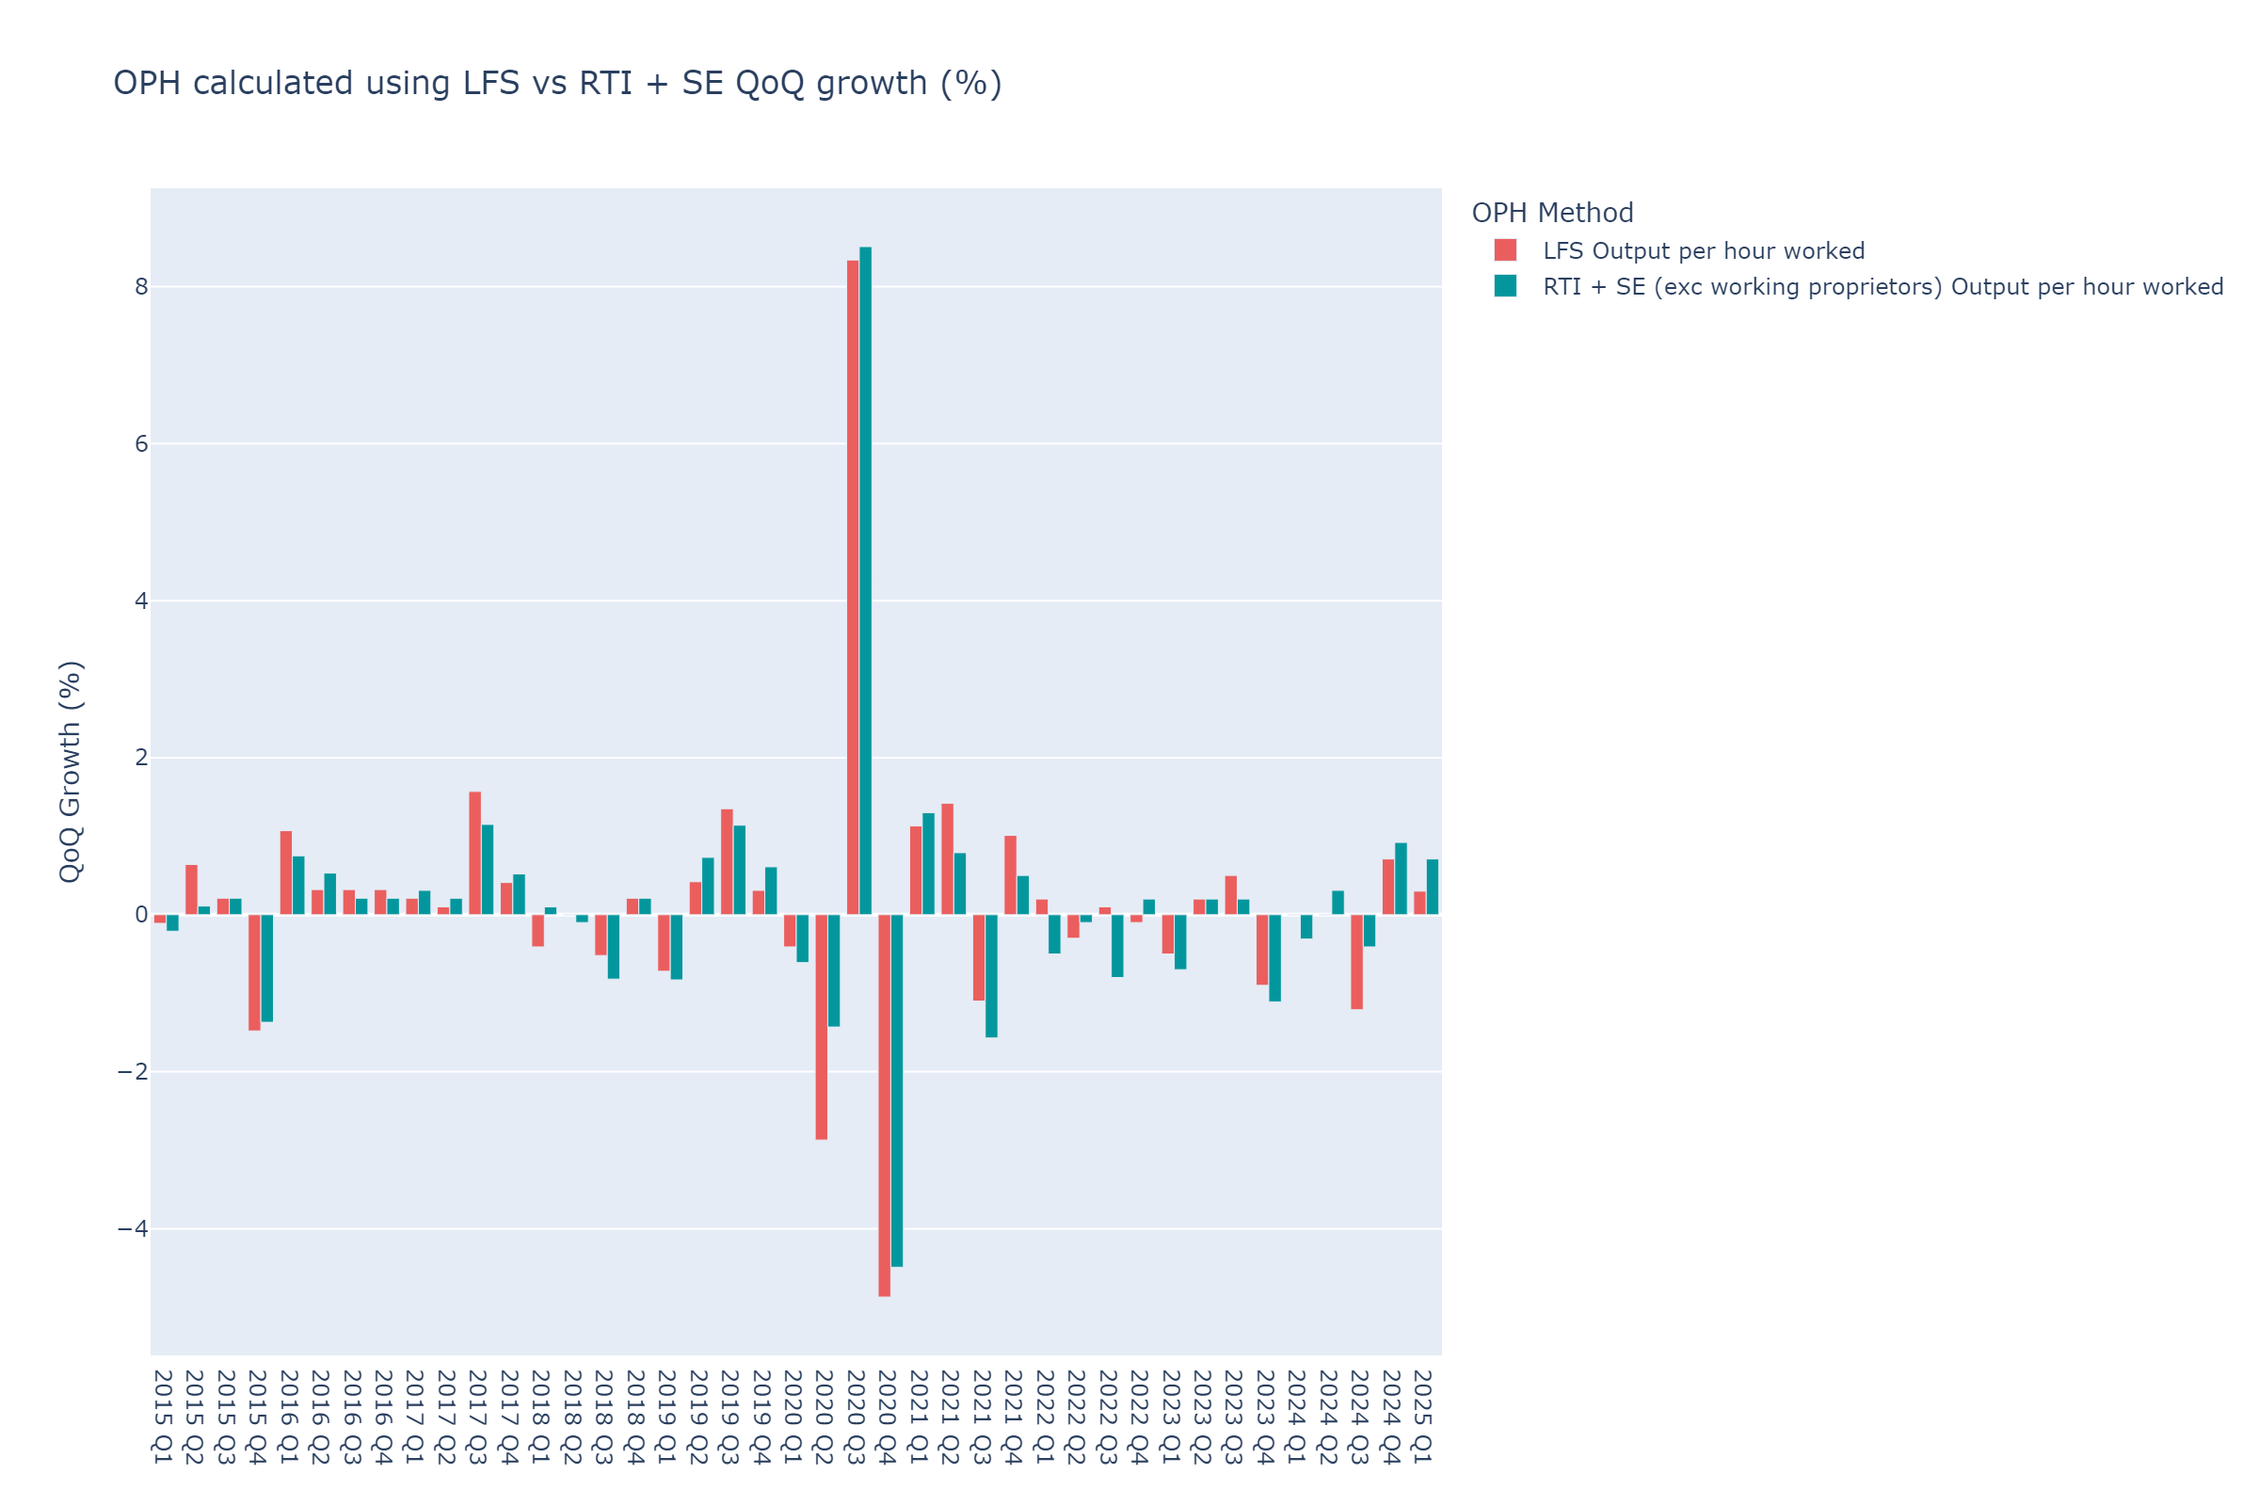
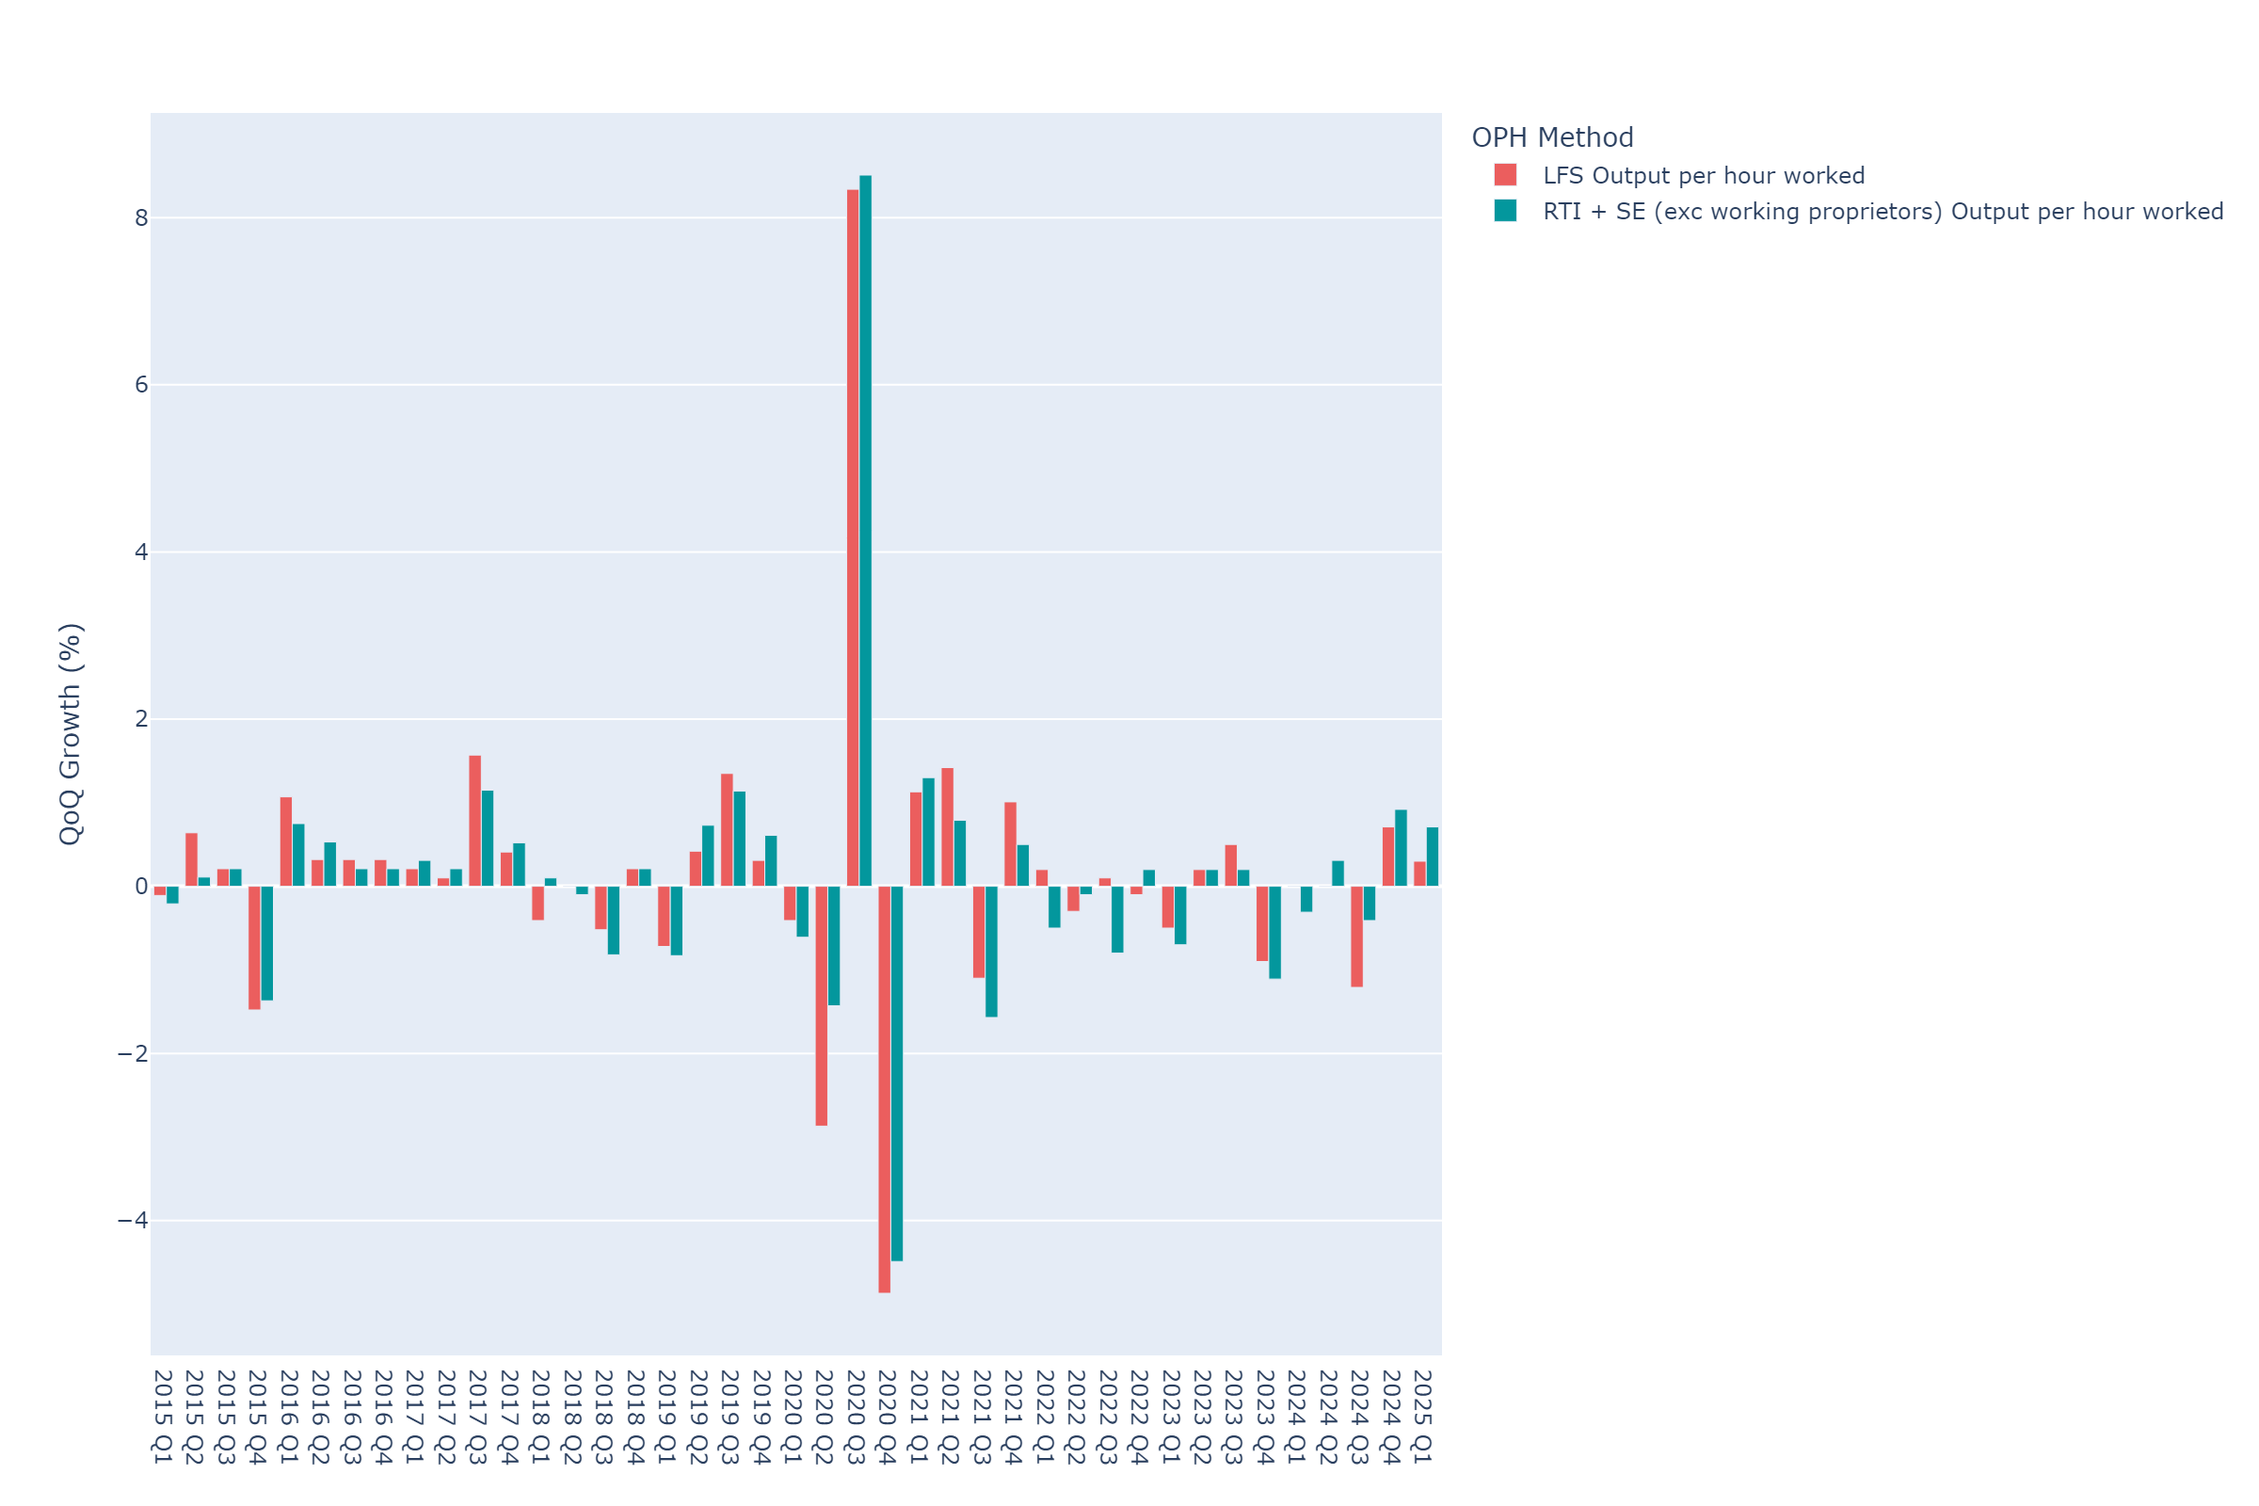
Visualisation changes

diff --git a/scripts/Flash_Estimate_Processing_20252802.py b/scripts/Flash_Estimate_Processing_20252802.py
@@ -58,7 +58,7 @@ def line_graph(data, year, title, yAxisTitle, legendTitle):
         data, 
         x="Quarter", 
         y=data.columns.drop("Quarter").tolist(), 
-        title=f"{title} (Q1 {year} = 100)",
+        title="",
         labels={"value": f"{yAxisTitle}", "variable": f"{legendTitle}"},
         color_discrete_sequence=TPI_colours)
 
@@ -88,7 +88,7 @@ def qoq(data, title, legendTitle):
         fig.update_xaxes(title=None)
         return fig
 
-def double_qoq(data, data_two, title, legendTitle):
+def double_qoq(data, data_two, title, legendTitle, leftTitle, rightTitle):
         # data = data[['Quarter', 'OPH']]
         # data["quarter_numeric"] = data["Quarter"].apply(quarter_to_numeric)
         # data = data[(data["quarter_numeric"] >= 2022 - 0.25) & (data["quarter_numeric"] <= 2024.75)]
@@ -104,7 +104,7 @@ def double_qoq(data, data_two, title, legendTitle):
         # Create subplots with 1 row and 2 columns
         fig = make_subplots(
             rows=1, cols=2, 
-            subplot_titles=["Output per hour", f"Output per worker"]
+            subplot_titles=[f"{leftTitle}", f"{rightTitle}"]
         )
 
         # Add the first bar chart to the first subplot
@@ -184,20 +184,44 @@ def horizontal_bar(data, title):
         x=data['Contribution'],
         orientation='h',
         marker=dict(
-            color=data['Contribution'],
-            colorscale=[
-                [0, TPI_Two],  
-                [1, TPI_One]
-            ],
+            color=[TPI_One if x > 0 else TPI_Two for x in data['Contribution']],
             line=dict(color='black', width=0.5)
         ), 
         width=[w / max(data['Size']) * 0.9 for w in data['Size']],  # Normalise bar thickness
     ))
 
-    # Clean layout
+    pos_data = data[data['Contribution'] >= 0]
+    neg_data = data[data['Contribution'] < 0]
+
+    # Positive annotations
+    for i, row in pos_data.iterrows():
+        fig.add_annotation(
+            x=row['Contribution'],
+            y=row['Industry'],
+            text=f"{row['Contribution']:.1%}",
+            showarrow=False,
+            font=dict(size=14, color='black'),
+            xanchor="left",
+            xshift=5,  # spacing from end of bar
+            yshift=0
+        )
+
+    # Negative annotations
+    for i, row in neg_data.iterrows():
+        fig.add_annotation(
+            x=row['Contribution'],
+            y=row['Industry'],
+            text=f"{row['Contribution']:.1%}",
+            showarrow=False,
+            font=dict(size=14, color='black'),
+            xanchor="right",
+            xshift=0,  # spacing from end of bar
+            yshift=0
+        )
+
     fig.update_layout(
         title=f'{title}',
-        xaxis_title='Percentage point change',
+        xaxis_title='Contribution to OPH, percentage point change',
         yaxis_title='',
         bargap=0.15,
         template='simple_white',
@@ -208,6 +232,11 @@ def horizontal_bar(data, title):
             zerolinewidth=2,
             zerolinecolor='gray'
         ),
+        yaxis=dict(
+            tickfont=dict(
+                size=15,
+            )
+        )
     )
     return fig
 
@@ -226,16 +255,16 @@ def OPH(data, title):
             "Change in <b>GVA</b> and <b>hours worked</b>"
         )
     )
-
+    left_chart_data = data.sort_values(by='Output per hour worked', ascending=False)
     # Left chart: Productivity
     fig.add_trace(
         go.Bar(
-            x=data['Output per hour worked'],
-            y=data['Industry'],
+            x=left_chart_data['Output per hour worked'],
+            y=left_chart_data['Industry'],
             orientation='h',
             name='Productivity',
             marker_color=TPI_colours[0],
-            text=data['Output per hour worked'].map(lambda x: f"{x:.1f}%"),
+            text=left_chart_data['Output per hour worked'].map(lambda x: f"{x:.1f}%"),
             textposition='auto'
         ),
         row=1, col=1
@@ -294,24 +323,24 @@ def New_GDP(data):
     ))
 
     fig.update_layout(
-        title="Q1 2025 GDP Growth by Country",
+        title="",
         xaxis_title="Growth Rate (%)",
         yaxis_title="",
         template="plotly_white"
     )
     return fig
 
-# Flash_Estimate = pd.read_csv('../src/New-release/OPH Q1 2025.csv', skiprows=7, usecols=[0,1,2,3], names=["Quarter", "GVA", "Hours Worked", "OPH"])
-# # Change from Q4 1997 to 1997 Q4
-# Flash_Estimate["Quarter"] = Flash_Estimate["Quarter"].str.replace(r"(Q\d) (\d{4})", r"\2 \1", regex=True)
+# # Flash_Estimate = pd.read_csv('../src/New-release/OPH Q1 2025.csv', skiprows=7, usecols=[0,1,2,3], names=["Quarter", "GVA", "Hours Worked", "OPH"])
+# # # Change from Q4 1997 to 1997 Q4
+# # Flash_Estimate["Quarter"] = Flash_Estimate["Quarter"].str.replace(r"(Q\d) (\d{4})", r"\2 \1", regex=True)
 
-# fig = line_graph(Flash_Estimate, 1997)
-# # fig = qoq(Flash_Estimate)
-# # fig = yoy(Flash_Estimate)
+# # fig = line_graph(Flash_Estimate, 1997)
+# # # fig = qoq(Flash_Estimate)
+# # # fig = yoy(Flash_Estimate)
 
-# fig.update_layout(template="plotly_white")
+# # fig.update_layout(template="plotly_white")
 
-# fig.show()
+# # fig.show()
 
 Flash_Estimate_OPH = pd.read_csv('../src/New-release/OPH Q1 2025.csv', skiprows=7, usecols=[0,1,2,3], names=["Quarter", "Gross Value Added", "Hours Worked", "Output Per Hour"])
 Flash_Estimate_OPH["Quarter"] = Flash_Estimate_OPH["Quarter"].str.replace(r"(Q\d) (\d{4})", r"\2 \1", regex=True)
@@ -319,66 +348,94 @@ Flash_Estimate_OPH["Quarter"] = Flash_Estimate_OPH["Quarter"].str.replace(r"(Q\d
 # Flash_Estimate_OPH = pd.melt(Flash_Estimate_OPH, id_vars=['Quarter'], var_name='Variable', value_name='Value')
 # Flash_Estimate_OPH['Country'] = 'UK Flash Estimate'
 # Flash_Estimate_OPH['Industry'] = 'Total'
-# # Flash_Estimate_OPH['Variable'] = 'Flash Estimate Output per Hour'
+# Flash_Estimate_OPH['Variable'] = 'Flash Estimate Output per Hour'
 # Flash_Estimate_OPH = rebase_chain_linked_quarters(Flash_Estimate_OPH, 2020)
-fig = line_graph(Flash_Estimate_OPH, 1997, "Output per hour worked vs Hours worked vs Gross Value Added for Q1 2025 Flash Estimate data", "", "")
+base_value = Flash_Estimate_OPH.loc[Flash_Estimate_OPH["Quarter"] == "2007 Q1", "Gross Value Added"].iloc[0]
+Flash_Estimate_OPH["Gross Value Added"] = (Flash_Estimate_OPH["Gross Value Added"] / base_value) * 100
+
+base_value = Flash_Estimate_OPH.loc[Flash_Estimate_OPH["Quarter"] == "2007 Q1", "Hours Worked"].iloc[0]
+Flash_Estimate_OPH["Hours Worked"] = (Flash_Estimate_OPH["Hours Worked"] / base_value) * 100
+
+base_value = Flash_Estimate_OPH.loc[Flash_Estimate_OPH["Quarter"] == "2007 Q1", "Output Per Hour"].iloc[0]
+Flash_Estimate_OPH["Output Per Hour"] = (Flash_Estimate_OPH["Output Per Hour"] / base_value) * 100
+
+Flash_Estimate_OPH["Quarter"] = Flash_Estimate_OPH["Quarter"].apply(quarter_to_numeric)
+Flash_Estimate_OPH = Flash_Estimate_OPH[(Flash_Estimate_OPH['Quarter'] >= 2007) & (Flash_Estimate_OPH['Quarter'] <= 2025)]
+Flash_Estimate_OPH["Quarter"] = Flash_Estimate_OPH["Quarter"].apply(numeric_to_quarter)
+fig = line_graph(Flash_Estimate_OPH, 2007, "", "", "")
 fig.show()
 fig.write_image("../out/visualisations/Q1 2025 Flash Estimate.png", width=1200, height=800, scale=2)
 
-# Dataset = pd.read_csv('../out/Long_Dataset.csv')
-# Dataset = pd.concat([Dataset, Flash_Estimate_OPH])
-# Dataset.to_csv("../out/Long_Dataset.csv", index=False)
+# # Dataset = pd.read_csv('../out/Long_Dataset.csv')
+# # Dataset = pd.concat([Dataset, Flash_Estimate_OPH])
+# # Dataset.to_csv("../out/Long_Dataset.csv", index=False)
 
-# OPH_Comparison = pd.read_csv('../src/New-release/OPH LFS vs RTI.csv', skiprows=7, usecols=[0,1,2], names=["Quarter", "LFS Output per hour worked", "RTI + SE (exc working proprietors) Output per hour worked"])
-# OPH_Comparison["Quarter"] = OPH_Comparison["Quarter"].str.replace(r"(Q\d) (\d{4})", r"\2 \1", regex=True)
-# OPH_Comparison["Quarter"] = OPH_Comparison["Quarter"].apply(quarter_to_numeric)
-# OPH_Comparison = pd.melt(OPH_Comparison, id_vars=['Quarter'], var_name='Variable', value_name='Value')
-# OPH_Comparison['Country'] = 'UK Flash Estimate'
-# OPH_Comparison['Industry'] = 'Total'
-# print(OPH_Comparison)
-# Dataset = pd.read_csv('../out/Long_Dataset.csv')
-# Dataset = pd.concat([Dataset, OPH_Comparison])
-# Dataset.to_csv("../out/Long_Dataset.csv", index=False)
+# # OPH_Comparison = pd.read_csv('../src/New-release/OPH LFS vs RTI.csv', skiprows=7, usecols=[0,1,2], names=["Quarter", "LFS Output per hour worked", "RTI + SE (exc working proprietors) Output per hour worked"])
+# # OPH_Comparison["Quarter"] = OPH_Comparison["Quarter"].str.replace(r"(Q\d) (\d{4})", r"\2 \1", regex=True)
+# # OPH_Comparison["Quarter"] = OPH_Comparison["Quarter"].apply(quarter_to_numeric)
+# # OPH_Comparison = pd.melt(OPH_Comparison, id_vars=['Quarter'], var_name='Variable', value_name='Value')
+# # OPH_Comparison['Country'] = 'UK Flash Estimate'
+# # OPH_Comparison['Industry'] = 'Total'
+# # print(OPH_Comparison)
+# # Dataset = pd.read_csv('../out/Long_Dataset.csv')
+# # Dataset = pd.concat([Dataset, OPH_Comparison])
+# # Dataset.to_csv("../out/Long_Dataset.csv", index=False)
 
-# Flash_Estimate_OPH['Variable'] = 'Flash Estimate Output per Hour'
-# OPH_Comparison = rebase_chain_linked_quarters(OPH_Comparison, 2020)
-# # fig = qoq(Flash_Estimate)
-# # fig = yoy(Flash_Estimate)
+# # Flash_Estimate_OPH['Variable'] = 'Flash Estimate Output per Hour'
+# # OPH_Comparison = rebase_chain_linked_quarters(OPH_Comparison, 2020)
+# # # fig = qoq(Flash_Estimate)
+# # # fig = yoy(Flash_Estimate)
+
+# QOQ bar graphs:
 # OPH_Comparison = pd.read_csv('../src/New-release/OPH LFS vs RTI.csv', skiprows=7, usecols=[0,1,2], names=["Quarter", "LFS Output per hour worked", "RTI + SE (exc working proprietors) Output per hour worked"])
 # OPH_Comparison["Quarter"] = OPH_Comparison["Quarter"].str.replace(r"(Q\d) (\d{4})", r"\2 \1", regex=True)
 # OPH_Comparison['Quarter'] = OPH_Comparison['Quarter'].apply(quarter_to_numeric)
-# OPH_Comparison = OPH_Comparison[(OPH_Comparison['Quarter'] >= 2014.75) & (OPH_Comparison['Quarter'] <= 2025)]
-# OPH_Comparison['Quarter'] = OPH_Comparison['Quarter'].apply(numeric_to_quarter)
-# # fig = line_graph(OPH_Comparison, 2022, "OPH using LFS vs RTI", "Output per hour worked", "OPH ...")
-# # fig.update_layout(template="plotly_white")
-# # fig.show()
+
+# preCovidOPH = OPH_Comparison.copy()
+# preCovidOPH = preCovidOPH[(preCovidOPH['Quarter'] >= 2014.75) & (preCovidOPH['Quarter'] <= 2019)]
+# preCovidOPH['Quarter'] = preCovidOPH['Quarter'].apply(numeric_to_quarter)
+
+# postCovidOPH = OPH_Comparison.copy()
+# postCovidOPH = postCovidOPH[(postCovidOPH['Quarter'] >= 2021) & (postCovidOPH['Quarter'] <= 2025)]
+# postCovidOPH['Quarter'] = postCovidOPH['Quarter'].apply(numeric_to_quarter)
+
+# fig = double_qoq(preCovidOPH, postCovidOPH, "", "legend", "Output per hour worked pre-COVID", "Output per hour worked post-COVID")
+# fig.write_image("../out/visualisations/OPH - LFS vs RTI - double.png", width=1200, height=800, scale=2)
+# fig.show()
 
 # OPW_Comparison = pd.read_csv('../src/New-release/OPW LFS vs RTI.csv', skiprows=7, usecols=[0,1,2], names=["Quarter", "LFS Output per hour worked", "RTI + SE (exc working proprietors) Output per hour worked"])
 # OPW_Comparison["Quarter"] = OPW_Comparison["Quarter"].str.replace(r"(Q\d) (\d{4})", r"\2 \1", regex=True)
 # OPW_Comparison['Quarter'] = OPW_Comparison['Quarter'].apply(quarter_to_numeric)
-# OPW_Comparison = OPW_Comparison[(OPW_Comparison['Quarter'] >= 2014.75) & (OPW_Comparison['Quarter'] <= 2025)]
-# OPW_Comparison['Quarter'] = OPW_Comparison['Quarter'].apply(numeric_to_quarter)
-# # fig = line_graph(OPW_Comparison, 2022, "OPW using LFS vs RTI", "Output per worker", "OPW ...")
-# # fig.update_layout(template="plotly_white")
-# # fig.show()
 
-# # fig = qoq(OPH_Comparison, "OPH calculated using LFS vs RTI + SE QoQ growth (%)", "OPH Method")
-# # fig.show()
-# # fig.write_image("../out/visualisations/OPH - LFS vs RTI.png", width=1200, height=800, scale=2)
-# # fig = qoq(OPW_Comparison, "OPW calculated using LFS vs RTI + SE QoQ growth (%)", "OPW Method")
-# # fig.show()
+# preCovidOPW = OPW_Comparison.copy()
+# preCovidOPW = preCovidOPW[(preCovidOPW['Quarter'] >= 2014.75) & (preCovidOPW['Quarter'] <= 2019)]
+# preCovidOPW['Quarter'] = preCovidOPW['Quarter'].apply(numeric_to_quarter)
+
+# postCovidOPW = OPW_Comparison.copy()
+# postCovidOPW = postCovidOPW[(postCovidOPW['Quarter'] >= 2021) & (postCovidOPW['Quarter'] <= 2025)]
+# postCovidOPW['Quarter'] = postCovidOPW['Quarter'].apply(numeric_to_quarter)
+
+# fig = double_qoq(preCovidOPW, postCovidOPW, "", "legend", "Output per worker pre-COVID", "Output per worker post-COVID")
+# fig.write_image("../out/visualisations/OPW - LFS vs RTI - double.png", width=1200, height=800, scale=2)
+# fig.show()
+
+# fig = qoq(OPH_Comparison, "", "OPH Method")
+# fig.show()
+# fig.write_image("../out/visualisations/OPH - LFS vs RTI.png", width=1200, height=800, scale=2)
+# fig = qoq(OPW_Comparison, "", "OPW Method")
+# fig.show()
 # # fig.write_image("../out/visualisations/OPW LFS vs RTI.png", width=1200, height=800, scale=2)
 # fig = double_qoq(OPH_Comparison, OPW_Comparison, "OPH and OPW calculated using LFS vs RTI + SE QoQ growth (%)", "Method")
-# fig.write_image("../out/visualisations/OPH and OPW LFS vs RTI.png", width=1200, height=800, scale=2)
+# # # fig.write_image("../out/visualisations/OPH and OPW LFS vs RTI.png", width=1200, height=800, scale=2)
 # fig.show()
 
 # OPH_Industries = pd.read_excel('../src/New-release/Contribution To OPH.xlsx', skiprows=11, usecols=[0,1, 2], names=["Industry", "Contribution", "Size"])
-# fig = horizontal_bar(OPH_Industries, "Contribution to OPH by Industry - width of bar represents relative size of industry")
+# fig = horizontal_bar(OPH_Industries, "")
 # fig.write_image("../out/visualisations/Contribution to OPH by Industry.png", width=1200, height=800, scale=2)
 # fig.show()
 
 # OPH_Breakdown = pd.read_excel('../src/New-release/GVA OPH HW.xlsx', skiprows=6, usecols=[0,1,2,3])
-# fig = OPH(OPH_Breakdown, "Industry Breakdown: Output per hour worked, GVA, and Hours Worked")
+# fig = OPH(OPH_Breakdown, "")
 # fig.write_image("../out/visualisations/OPH GVA HW.png", width=1200, height=800, scale=2)
 # fig.show()
 
